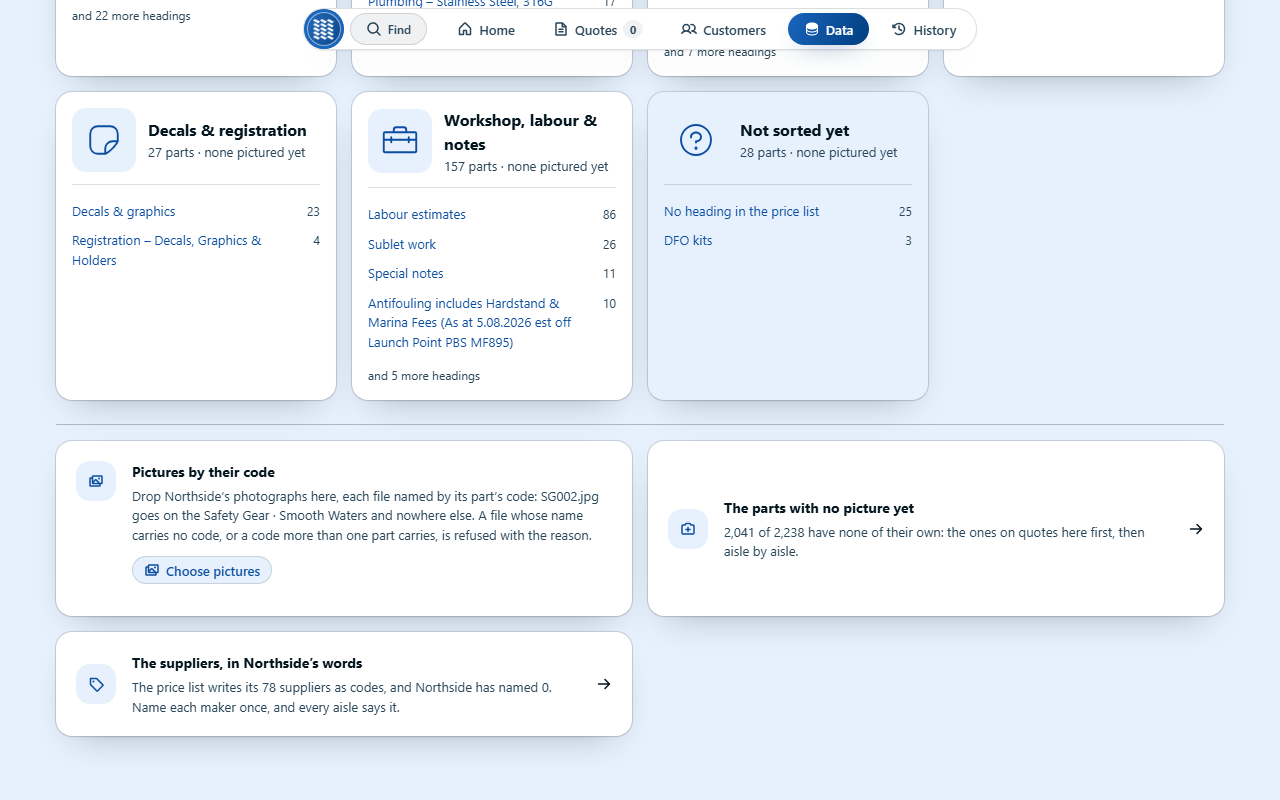
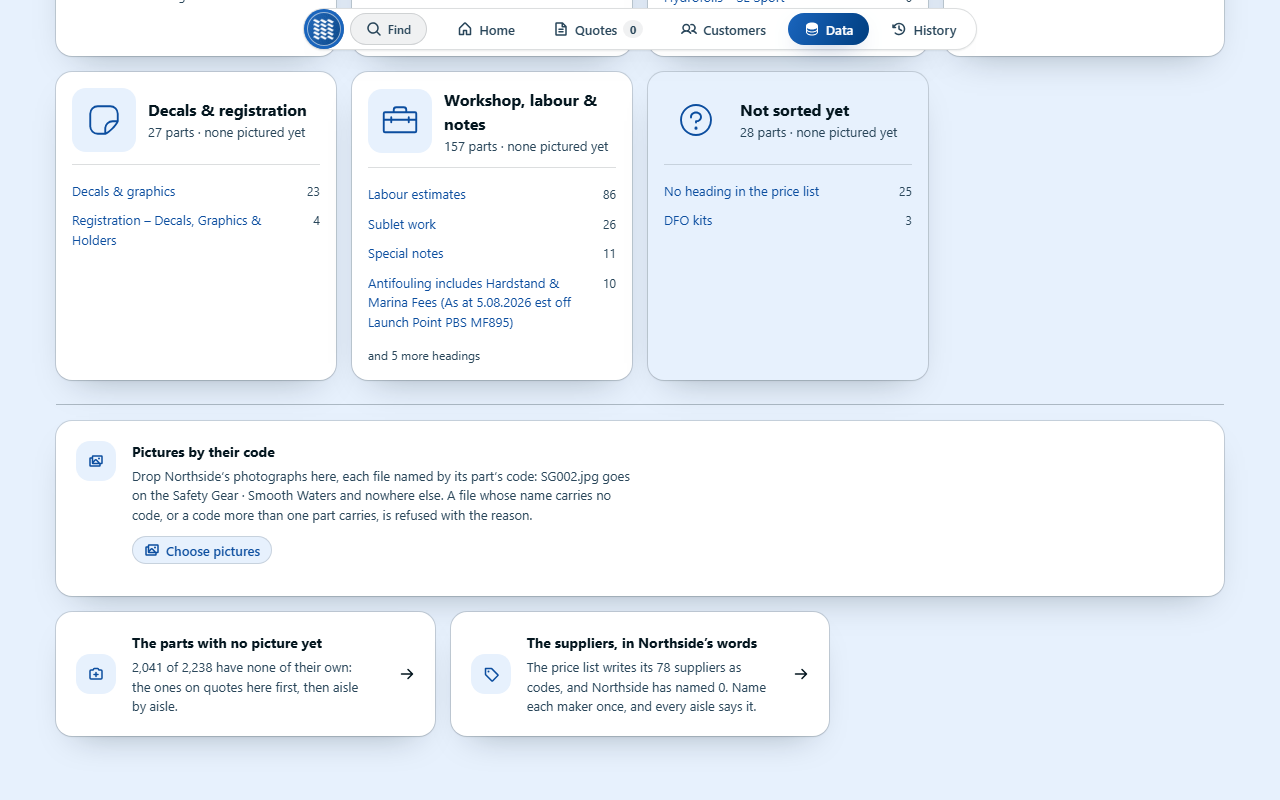
Checkpoint: Data, the price list itself: prettier over the round 2 checkpoint, mid-round; not gated

diff --git a/src/screens/catalogue/catalogue.css b/src/screens/catalogue/catalogue.css
@@ -356,7 +356,7 @@
    parts with no picture and the suppliers named — side by side wherever two fit */
 .chd-door__keep {
   display: grid;
-  grid-template-columns: repeat(auto-fit, minmax(min(100%, --spacing(80)), 1fr));
+  grid-template-columns: minmax(0, 1fr);
   gap: --spacing(4);
   padding-block-start: --spacing(4);
   border-block-start: 1px solid var(--color-rule-strong);
@@ -378,6 +378,11 @@
 }
 .chd-door__keep > .chd-bycode {
   grid-column: 1 / -1;
+}
+@media (min-width: 640px) {
+  .chd-door__keep {
+    grid-template-columns: repeat(2, minmax(0, 1fr));
+  }
 }
 .chd-bycode[data-over] {
   box-shadow: var(--ring-chosen);
